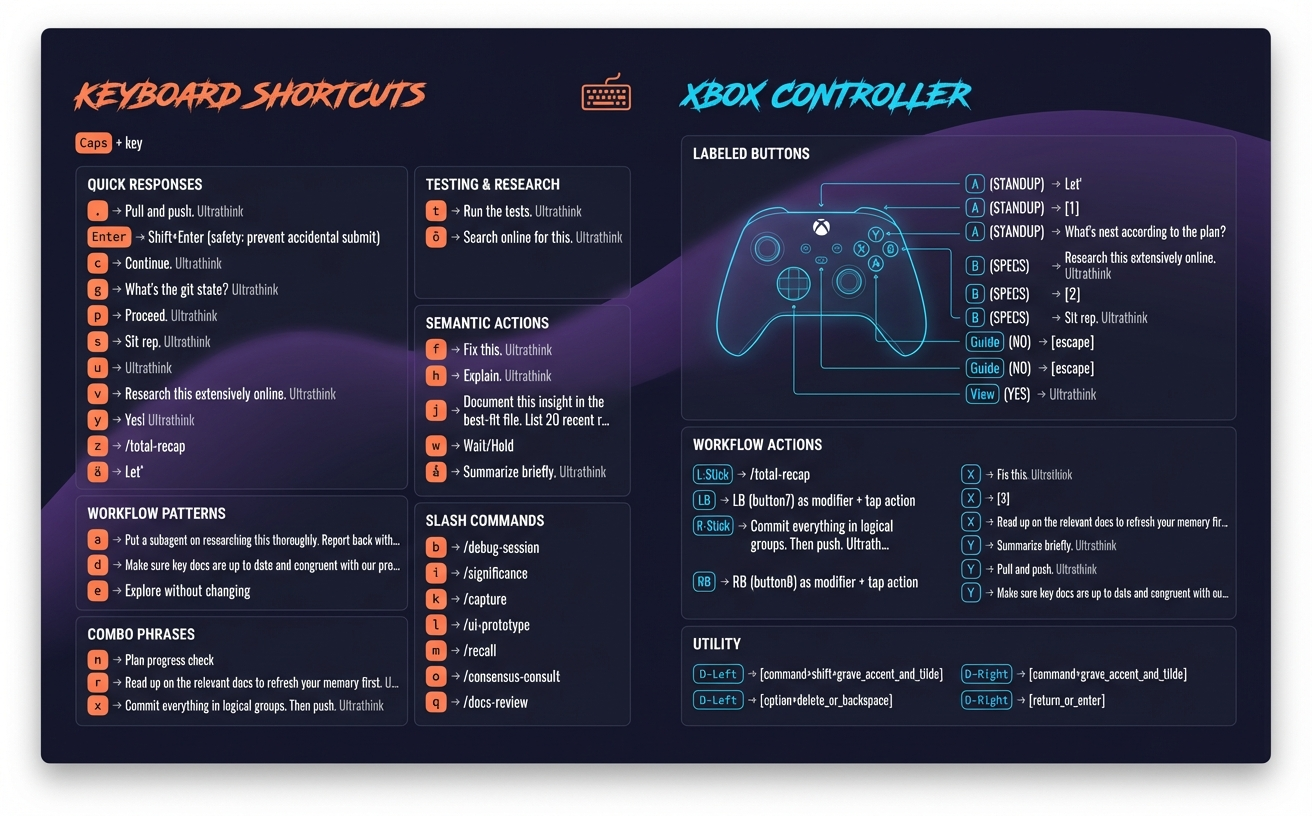
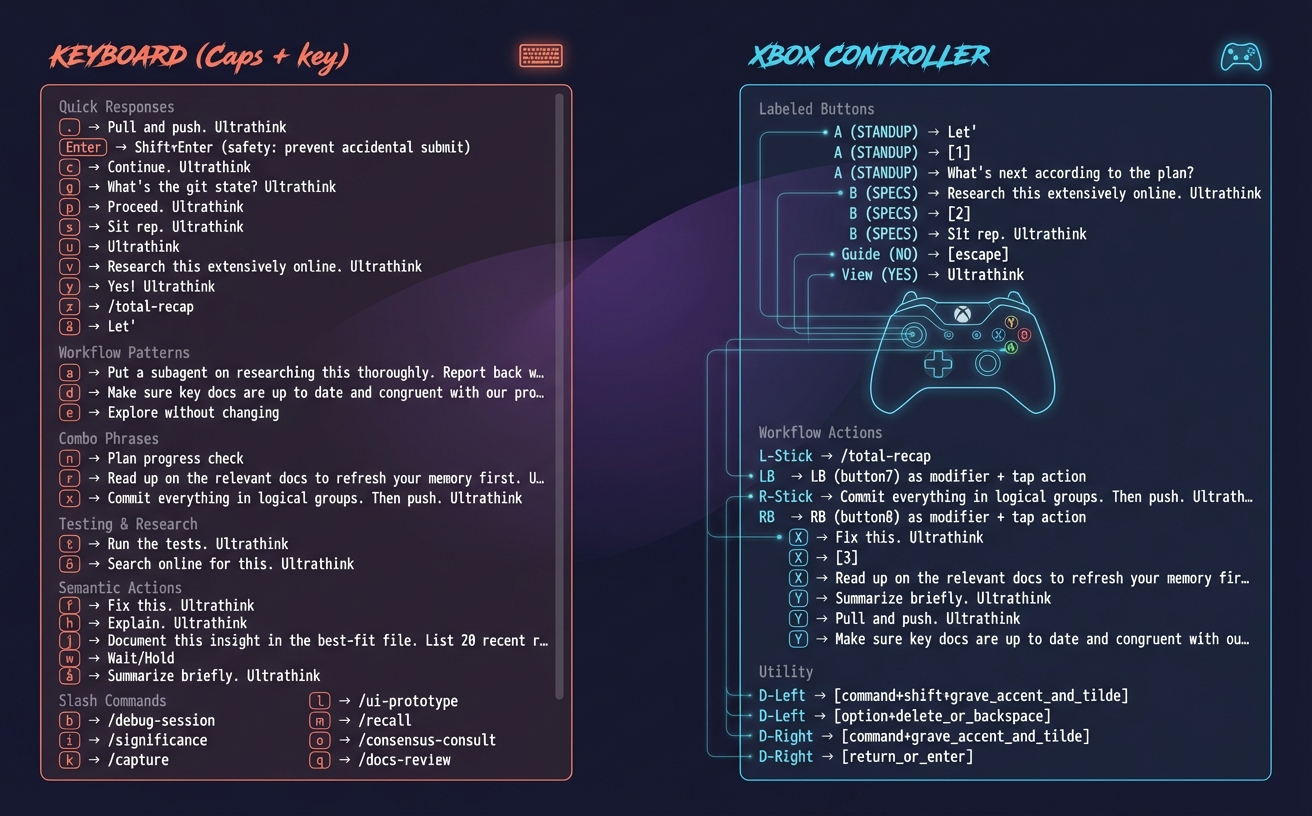
Fix white border - background extends to edges
Added explicit prompt instruction: no white margins/borders,
dark navy background must extend to all edges.

🤖 Generated with [Claude Code](https://claude.com/claude-code)

diff --git a/scripts/generate_cheatsheet_ai.py b/scripts/generate_cheatsheet_ai.py
@@ -343,6 +343,11 @@ VISUAL ELEMENTS:
 Resolution: 2K quality
 Aspect ratio: 16:10 (landscape to fit both columns)
 
+CRITICAL - NO WHITE BORDERS:
+- The image must have NO white margins, borders, or padding around the edges
+- The dark navy background (#1a1a2e) must extend to ALL edges of the image
+- Content should go edge-to-edge (with reasonable internal padding)
+
 Think: Modern dashboard UI meets subtle synthwave aesthetic. Clean, functional, beautiful.
 CRITICAL: Every single shortcut must be readable. Prioritize legibility and content over decoration."""
 
